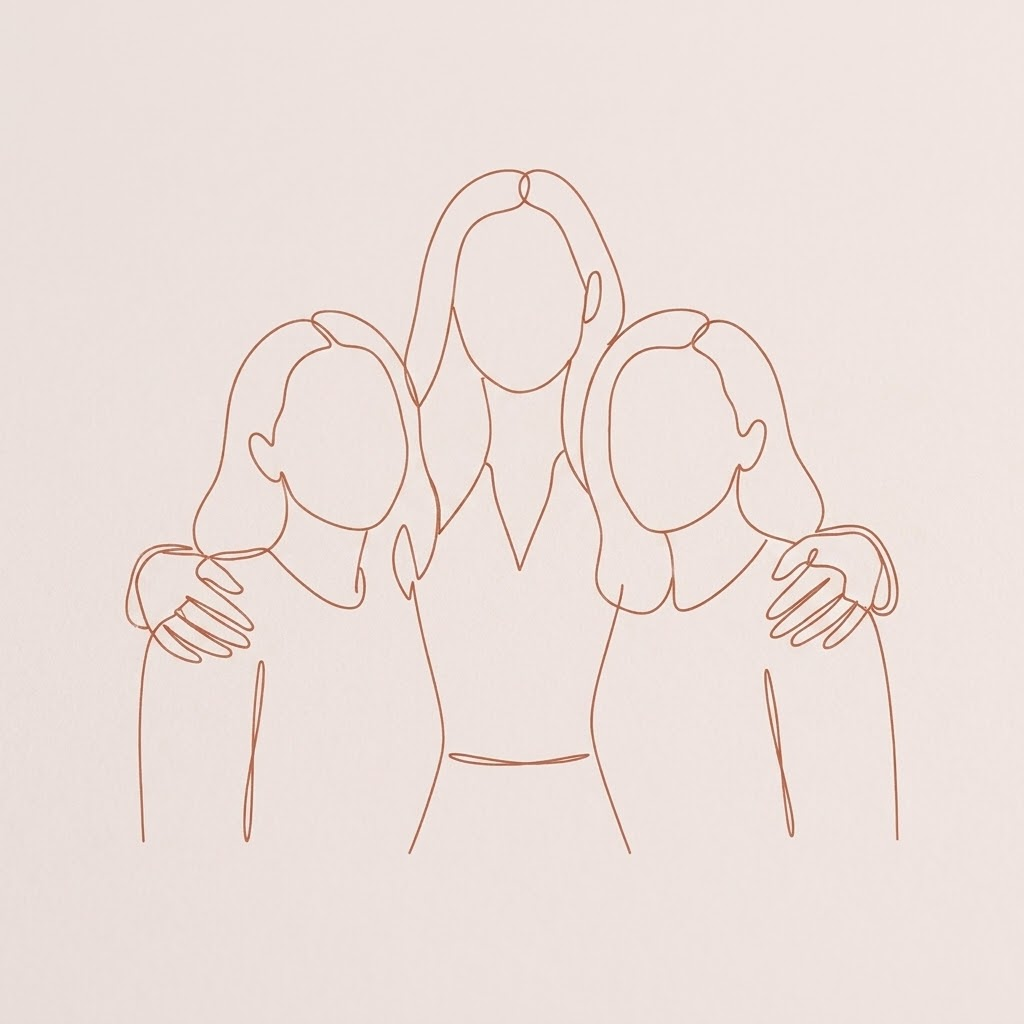
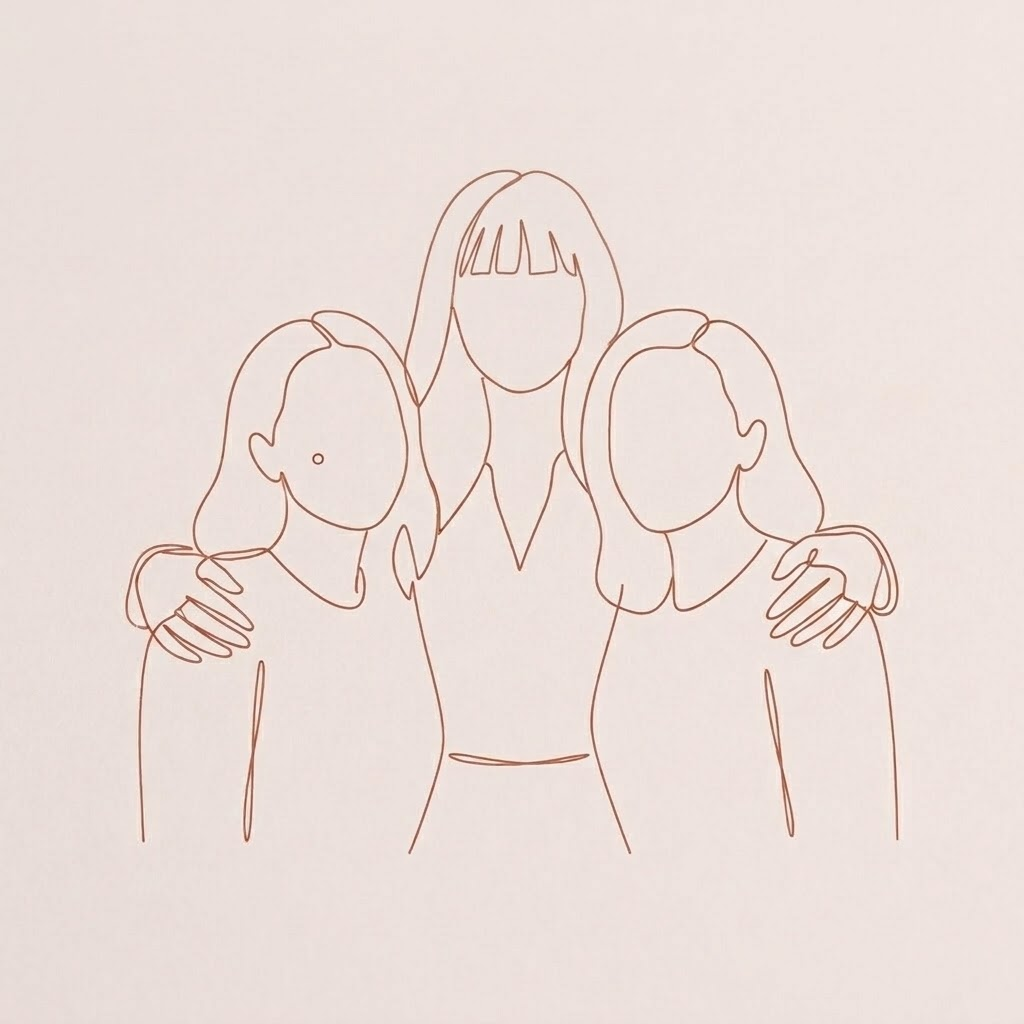
beta 2

Changed region(s): [[0.4062, 0.1562, 0.625, 0.3125]]

diff --git a/index.html b/index.html
@@ -4,6 +4,7 @@
   <meta charset="UTF-8">
   <meta name="viewport" content="width=device-width, initial-scale=1.0">
   <title>Usejem - Maquiagem Acessível e Real</title>
+  <link rel="icon" type="image/png" href="assets/favicon.png">
   <link rel="stylesheet" href="https://fonts.googleapis.com/css2?family=Plus+Jakarta+Sans:wght@300;400;500;600;700;800&display=swap">
   <link rel="stylesheet" href="https://cdnjs.cloudflare.com/ajax/libs/font-awesome/6.5.1/css/all.min.css">
   <style>
@@ -201,6 +202,7 @@
       line-height: 1.6;
       margin-bottom: 40px;
       text-align: left;
+      text-shadow: 0 1px 8px rgba(255, 255, 255, 0.9), 0 1px 3px rgba(255, 255, 255, 0.95);
     }
 
     .hero-buttons {
@@ -636,8 +638,8 @@
       }
       #inicio {
         background: linear-gradient(
-            rgba(252, 248, 246, 0.92),
-            rgba(252, 248, 246, 0.92)
+            rgba(252, 248, 246, 0.78),
+            rgba(252, 248, 246, 0.78)
           ),
           url('assets/hero-bg.png') center / cover no-repeat;
         padding: 120px 5% 60px;
@@ -716,10 +718,10 @@
       </p>
       <div class="hero-buttons">
         <a href="https://wa.me/5511994788028" target="_blank" rel="noopener noreferrer" class="btn-primary">
-          <i class="fa-brands fa-whatsapp"></i> Chamar no WhatsApp
+          <i class="fa-brands fa-whatsapp"></i> WhatsApp
         </a>
         <a href="https://www.instagram.com/_usejem/" target="_blank" rel="noopener noreferrer" class="btn-secondary">
-          <i class="fa-brands fa-instagram"></i> Seguir @_usejem
+          <i class="fa-brands fa-instagram"></i> @_usejem
         </a>
       </div>
     </div>
